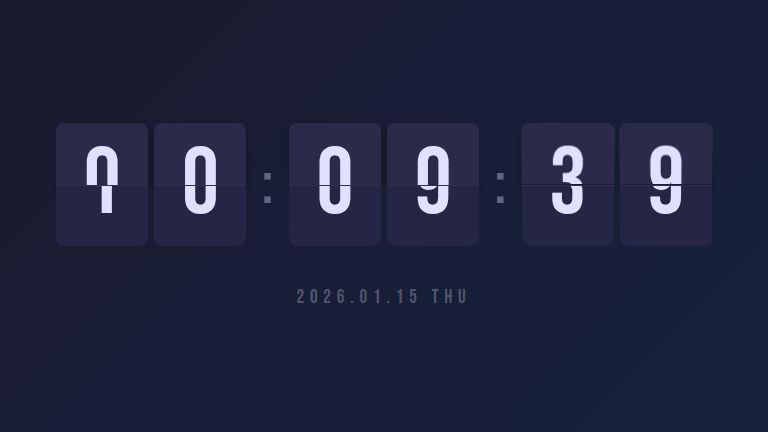
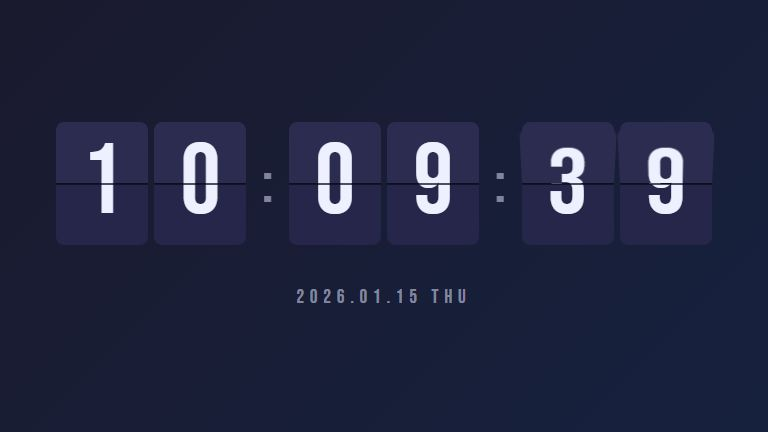
FLIPの表示崩れを修正し、自然系3種の数字を読みやすくした
- FLIP: めくり用パネルが常時表示され、上半分に前の数字が残って時刻が読めなかった。
  めくり中だけ表示し、上下の半分をフォントのメトリクスに依存せず揃える構造に変更
- FOREST / FIREPLACE / OCEAN: Cormorant Garamond のオールドスタイル数字をやめ、
  ライニング・等幅数字に切替。字の太さと日付・ラベルのコントラストを上げた
- プレビュー画像・OGP画像を再生成し、sw.js の VERSION を v5 に更新

diff --git a/clocks/flip/index.html b/clocks/flip/index.html
@@ -112,89 +112,106 @@
       width: clamp(50px, 12vw, 140px);
       height: clamp(70px, 16vw, 190px);
       perspective: 600px;
-    }
-
-    .flip-card .top,
-    .flip-card .bottom {
-      position: absolute;
-      left: 0;
-      right: 0;
-      background: #2a2a4a;
-      color: #e0e0ff;
       font-family: 'Bebas Neue', sans-serif;
-      font-size: clamp(48px, 12vw, 130px);
-      line-height: 0;
-      overflow: hidden;
-      border-radius: 8px;
+      font-size: clamp(56px, 13vw, 150px);
+      color: #eef0ff;
     }
 
-    .flip-card .top {
-      top: 0;
-      height: 50%;
-      border-bottom: 1px solid rgba(0, 0, 0, 0.3);
-      border-radius: 8px 8px 0 0;
-      display: flex;
-      align-items: flex-end;
-      justify-content: center;
-      box-shadow: 0 2px 4px rgba(0, 0, 0, 0.2);
-    }
-
-    .flip-card .bottom {
-      bottom: 0;
-      height: 50%;
-      border-top: 1px solid rgba(255, 255, 255, 0.05);
-      border-radius: 0 0 8px 8px;
-      display: flex;
-      align-items: flex-start;
-      justify-content: center;
-      background: #252545;
-    }
-
-    /* Flip animation overlay */
+    /* 上半分・下半分はどちらも「カード全高の数字」を半分だけ見せる。
+       数字の位置をフォントのメトリクスに頼らず揃えるため、
+       span をカード全高で中央揃えし、下半分は1枚分上にずらして切り抜く */
+    .flip-card .top,
+    .flip-card .bottom,
     .flip-card .flip-top,
     .flip-card .flip-bottom {
       position: absolute;
       left: 0;
       right: 0;
-      background: #2a2a4a;
-      color: #e0e0ff;
-      font-family: 'Bebas Neue', sans-serif;
-      font-size: clamp(48px, 12vw, 130px);
-      line-height: 0;
+      height: 50%;
       overflow: hidden;
+      background: #2c2c50;
+    }
+
+    .flip-card span {
+      position: absolute;
+      left: 0;
+      right: 0;
+      height: 200%;
+      display: flex;
+      align-items: center;
+      justify-content: center;
+      line-height: 1;
+    }
+
+    .flip-card .top,
+    .flip-card .flip-top {
+      top: 0;
+      border-radius: 8px 8px 0 0;
+    }
+
+    .flip-card .top span,
+    .flip-card .flip-top span {
+      top: 0;
+    }
+
+    .flip-card .bottom,
+    .flip-card .flip-bottom {
+      bottom: 0;
+      border-radius: 0 0 8px 8px;
+      background: #26264a;
+    }
+
+    .flip-card .bottom span,
+    .flip-card .flip-bottom span {
+      top: -100%;
+    }
+
+    /* 中央のヒンジ（切れ目） */
+    .flip-card .top {
+      box-shadow: inset 0 -1px 0 rgba(0, 0, 0, 0.45);
+    }
+
+    .flip-card::after {
+      content: '';
+      position: absolute;
+      left: 0;
+      right: 0;
+      top: 50%;
+      height: 2px;
+      margin-top: -1px;
+      background: rgba(10, 10, 25, 0.7);
+      z-index: 3;
+    }
+
+    /* めくり用のパネルは、めくっている間だけ表示する
+       （常時表示していると上半分に前の数字が残り、時刻が読めなくなる） */
+    .flip-card .flip-top,
+    .flip-card .flip-bottom {
       z-index: 2;
+      visibility: hidden;
+      backface-visibility: hidden;
     }
 
     .flip-card .flip-top {
-      top: 0;
-      height: 50%;
-      border-radius: 8px 8px 0 0;
-      display: flex;
-      align-items: flex-end;
-      justify-content: center;
       transform-origin: bottom;
-      backface-visibility: hidden;
     }
 
     .flip-card .flip-bottom {
-      bottom: 0;
-      height: 50%;
-      border-radius: 0 0 8px 8px;
-      display: flex;
-      align-items: flex-start;
-      justify-content: center;
       transform-origin: top;
       transform: rotateX(90deg);
-      backface-visibility: hidden;
-      background: #252545;
+    }
+
+    .flip-card.flipping .flip-top,
+    .flip-card.flipping .flip-bottom {
+      visibility: visible;
     }
 
     .flip-card.flipping .flip-top {
-      animation: flipTop 0.4s ease-in forwards;
+      animation: flipTop 0.3s ease-in forwards;
     }
 
     .flip-card.flipping .flip-bottom {
-      animation: flipBottom 0.4s 0.2s ease-out forwards;
+      animation: flipBottom 0.3s 0.3s ease-out forwards;
     }
 
     @keyframes flipTop {
@@ -210,19 +227,19 @@
     .flip-separator {
       font-family: 'Bebas Neue', sans-serif;
       font-size: clamp(36px, 8vw, 80px);
-      color: rgba(224, 224, 255, 0.4);
+      color: rgba(224, 224, 255, 0.6);
       animation: separatorPulse 1s ease-in-out infinite;
     }
 
     @keyframes separatorPulse {
-      0%, 100% { opacity: 0.4; }
+      0%, 100% { opacity: 0.5; }
       50% { opacity: 1; }
     }
 
     .date-display {
       font-family: 'Bebas Neue', sans-serif;
       font-size: clamp(14px, 2.5vw, 28px);
-      color: rgba(224, 224, 255, 0.3);
+      color: rgba(224, 224, 255, 0.55);
       letter-spacing: 0.3em;
       margin-top: 24px;
     }
@@ -278,27 +295,49 @@
     const cards = { h1: document.getElementById('h1'), h2: document.getElementById('h2'), m1: document.getElementById('m1'), m2: document.getElementById('m2'), s1: document.getElementById('s1'), s2: document.getElementById('s2') };
     const dateEl = document.getElementById('date');
 
-    function flipCard(card, newVal) {
+    // めくりの手順:
+    //   上半分（静止）  … すぐ新しい数字にする（めくれた後ろから見える面）
+    //   下半分（静止）  … めくり終わるまで古い数字のまま
+    //   flip-top       … 古い数字の上半分が手前に倒れる
+    //   flip-bottom    … 新しい数字の下半分が降りてきて下半分を覆う
+    function flipCard(card, newVal, animate = true) {
       const top = card.querySelector('.top span');
       const bottom = card.querySelector('.bottom span');
       const flipTop = card.querySelector('.flip-top span');
       const flipBottom = card.querySelector('.flip-bottom span');
 
+      if (card._finish) card._finish(); // 前のめくりが途中なら確定させる
       if (top.textContent === newVal) return;
+
+      if (!animate) {
+        top.textContent = bottom.textContent = newVal;
+        return;
+      }
 
       flipTop.textContent = top.textContent;
       flipBottom.textContent = newVal;
+      top.textContent = newVal;
+
+      // 同じクラスを付け直してもアニメーションが再生されるよう reflow を挟む
+      card.classList.remove('flipping');
+      void card.offsetWidth;
       card.classList.add('flipping');
 
       const flipBottomEl = card.querySelector('.flip-bottom');
-      function onAnimEnd() {
-        top.textContent = newVal;
+      // 非表示タブでは animationend が来ないことがあるので、タイマーでも確定させる
+      const timer = setTimeout(finish, 700);
+      function finish() {
+        clearTimeout(timer);
+        flipBottomEl.removeEventListener('animationend', finish);
         bottom.textContent = newVal;
         card.classList.remove('flipping');
-        flipBottomEl.removeEventListener('animationend', onAnimEnd);
+        card._finish = null;
       }
-      flipBottomEl.addEventListener('animationend', onAnimEnd);
+      card._finish = finish;
+      flipBottomEl.addEventListener('animationend', finish);
     }
+
+    let firstTick = true;
 
     // 共通の DigitalClock を使う（独自の setInterval だと 24H/12H 切替と
     // AM/PM 表示が他デザインと揃わないため）
@@ -306,12 +345,15 @@
       showSeconds: true,
       use24Hour: true,
       onTick(data) {
-        flipCard(cards.h1, data.hours[0]);
-        flipCard(cards.h2, data.hours[1]);
-        flipCard(cards.m1, data.minutes[0]);
-        flipCard(cards.m2, data.minutes[1]);
-        flipCard(cards.s1, data.seconds[0]);
-        flipCard(cards.s2, data.seconds[1]);
+        // 初回はめくらずに現在時刻を出す（全桁が 0 からめくれて読めない瞬間を作らない）
+        const animate = !firstTick;
+        firstTick = false;
+        flipCard(cards.h1, data.hours[0], animate);
+        flipCard(cards.h2, data.hours[1], animate);
+        flipCard(cards.m1, data.minutes[0], animate);
+        flipCard(cards.m2, data.minutes[1], animate);
+        flipCard(cards.s1, data.seconds[0], animate);
+        flipCard(cards.s2, data.seconds[1], animate);
 
         dateEl.textContent = `${data.date.year}.${data.date.month}.${data.date.day}  ${data.date.dayOfWeek}`;
       }

diff --git a/clocks/forest/index.html b/clocks/forest/index.html
@@ -209,13 +209,16 @@
       position: relative;
       z-index: 2;
       text-align: center;
+      /* Cormorant Garamond の既定はオールドスタイル数字（1 が I に見え、9 が下に垂れる）。
+         時計として読めるよう、高さの揃ったライニング数字・等幅数字に切り替える */
+      font-variant-numeric: lining-nums tabular-nums;
     }
 
     .time-display {
       font-family: 'Cormorant Garamond', serif;
       font-size: clamp(56px, 16vw, 220px);
-      font-weight: 300;
-      color: rgba(200, 230, 170, 0.85);
+      font-weight: 500;
+      color: rgba(210, 236, 185, 0.95);
       letter-spacing: 0.02em;
       line-height: 1;
       text-shadow:
@@ -230,8 +233,8 @@
     .date-display {
       font-family: 'Cormorant Garamond', serif;
       font-size: clamp(13px, 2.2vw, 22px);
-      font-weight: 400;
-      color: rgba(160, 200, 140, 0.35);
+      font-weight: 500;
+      color: rgba(170, 210, 150, 0.6);
       letter-spacing: 0.25em;
       margin-top: 20px;
       text-transform: uppercase;
@@ -240,7 +243,7 @@
     .season-label {
       font-family: 'Cormorant Garamond', serif;
       font-size: clamp(10px, 1.5vw, 14px);
-      color: rgba(140, 180, 120, 0.25);
+      color: rgba(150, 190, 130, 0.45);
       letter-spacing: 0.4em;
       margin-top: 12px;
       text-transform: uppercase;

diff --git a/clocks/ocean/index.html b/clocks/ocean/index.html
@@ -207,14 +207,17 @@
       position: relative;
       z-index: 3;
       text-align: center;
+      /* Cormorant Garamond の既定はオールドスタイル数字（1 が I に見え、9 が下に垂れる）。
+         時計として読めるよう、高さの揃ったライニング数字・等幅数字に切り替える */
+      font-variant-numeric: lining-nums tabular-nums;
       margin-top: -10%;
     }
 
     .time-display {
       font-family: 'Cormorant Garamond', serif;
       font-size: clamp(56px, 16vw, 220px);
-      font-weight: 300;
-      color: rgba(200, 220, 240, 0.85);
+      font-weight: 500;
+      color: rgba(212, 228, 245, 0.95);
       letter-spacing: 0.02em;
       line-height: 1;
       text-shadow:
@@ -229,8 +232,8 @@
     .date-display {
       font-family: 'Cormorant Garamond', serif;
       font-size: clamp(13px, 2.2vw, 22px);
-      font-weight: 400;
-      color: rgba(160, 190, 220, 0.3);
+      font-weight: 500;
+      color: rgba(170, 198, 228, 0.6);
       letter-spacing: 0.25em;
       margin-top: 20px;
     }
@@ -238,7 +241,7 @@
     .tide-label {
       font-family: 'Cormorant Garamond', serif;
       font-size: clamp(10px, 1.5vw, 14px);
-      color: rgba(140, 170, 210, 0.2);
+      color: rgba(150, 180, 218, 0.45);
       letter-spacing: 0.3em;
       margin-top: 12px;
     }

diff --git a/clocks/fireplace/index.html b/clocks/fireplace/index.html
@@ -179,13 +179,16 @@
       position: relative;
       z-index: 3;
       text-align: center;
+      /* Cormorant Garamond の既定はオールドスタイル数字（1 が I に見え、9 が下に垂れる）。
+         時計として読めるよう、高さの揃ったライニング数字・等幅数字に切り替える */
+      font-variant-numeric: lining-nums tabular-nums;
     }
 
     .time-display {
       font-family: 'Cormorant Garamond', serif;
       font-size: clamp(56px, 16vw, 220px);
-      font-weight: 300;
-      color: rgba(255, 210, 160, 0.9);
+      font-weight: 500;
+      color: rgba(255, 218, 175, 0.96);
       letter-spacing: 0.02em;
       line-height: 1;
       text-shadow:
@@ -219,8 +222,8 @@
     .date-display {
       font-family: 'Cormorant Garamond', serif;
       font-size: clamp(13px, 2.2vw, 22px);
-      font-weight: 400;
-      color: rgba(255, 180, 120, 0.3);
+      font-weight: 500;
+      color: rgba(255, 190, 135, 0.6);
       letter-spacing: 0.25em;
       margin-top: 20px;
     }
@@ -228,7 +231,7 @@
     .temp-display {
       font-family: 'Cormorant Garamond', serif;
       font-size: clamp(10px, 1.5vw, 14px);
-      color: rgba(255, 160, 100, 0.2);
+      color: rgba(255, 170, 110, 0.45);
       letter-spacing: 0.3em;
       margin-top: 12px;
     }

diff --git a/sw.js b/sw.js
@@ -14,7 +14,7 @@
  * ★ css/js/fonts/画像を変更したら VERSION を上げること。
  *   上げ忘れると古いアセットが配信され続ける。
  */
-const VERSION = 'v4';
+const VERSION = 'v5';
 const STATIC_CACHE = `web7clock-static-${VERSION}`;
 const RUNTIME_CACHE = `web7clock-runtime-${VERSION}`;
 const OFFLINE_FALLBACK = '/';
